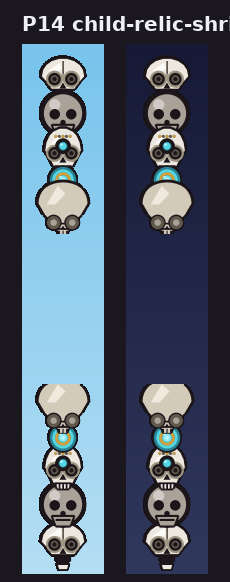
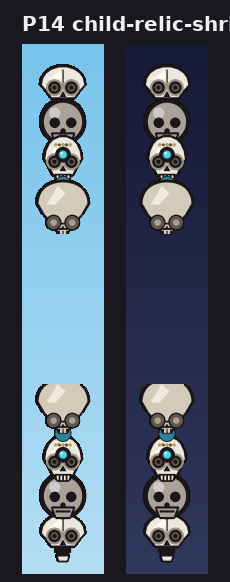
skull routes: expand column pool to 20 designs (P11-P20)
Routes were drawing from only 10 column designs, so repetition read
through. Add 10 new no-skewer stacked-skull columns (P11-P20) to the pool
and the catalog. The new set deliberately spends the three parts no P1-P10
design used (classic:child-skull, orn:bead_darkblue, r9:0 unlit crown) and
leans on under-used skulls/ornaments, spread so no single part defines two
columns; an art-director variety pass cleared the 20 with one fix (P14's
halo necklace was twinning P19, swapped to a dark-blue votive bead).

- render_skull_routes.py: DESIGN_FILES 10 -> 20; routes auto-mix the pool.
- pillars/build_showcase.py: catalog reworked to 20 cells in ORIGINAL
  (P1-P10) / NEW (P11-P20) sections.
- Regenerated routes/skull_routes.png + pillars/showcase.png.

Claude-Session: https://claude.ai/code/session_01JdHJ2TbdY51oSPSCYSsaHZ

diff --git a/docs/skull_king_stack/pillars/build_showcase.py b/docs/skull_king_stack/pillars/build_showcase.py
@@ -15,18 +15,28 @@ import pygame
 import pillar_engine as PE
 sk = PE.sk
 
-# id, slug, module filename, group
+# id, slug, module filename, group (original P1-P10 vs the new no-skewer P11-P20)
 PILLARS = [
-    (1,  "relic-reliquary-totem",        "render_relic_reliquary_totem.py",        "plain"),
-    (2,  "horned-warband",               "render_horned_warband.py",               "plain"),
-    (3,  "keystone-cairn",               "render_keystone_cairn.py",               "plain"),
-    (4,  "gaunt-hollow-spire",           "render_gaunt_hollow_spire.py",           "plain"),
-    (5,  "broken-bone-pile",             "render_broken_bone_pile.py",             "plain"),
-    (6,  "plain-bone-spit",              "render_plain_bone_spit.py",              "skewered"),
-    (7,  "gold-cored-scepter",           "render_gold_cored_scepter.py",           "skewered"),
-    (8,  "ring-eye-washer-axle",         "render_ring_eye_washer_axle.py",         "skewered"),
-    (9,  "barbed-fang-harpoon",          "render_barbed_fang_harpoon.py",          "skewered"),
-    (10, "bead-threaded-strand-spindle", "render_bead_threaded_strand_spindle.py", "skewered"),
+    (1,  "relic-reliquary-totem",        "render_relic_reliquary_totem.py",        "original"),
+    (2,  "horned-warband",               "render_horned_warband.py",               "original"),
+    (3,  "keystone-cairn",               "render_keystone_cairn.py",               "original"),
+    (4,  "gaunt-hollow-spire",           "render_gaunt_hollow_spire.py",           "original"),
+    (5,  "broken-bone-pile",             "render_broken_bone_pile.py",             "original"),
+    (6,  "plain-bone-spit",              "render_plain_bone_spit.py",              "original"),
+    (7,  "gold-cored-scepter",           "render_gold_cored_scepter.py",           "original"),
+    (8,  "ring-eye-washer-axle",         "render_ring_eye_washer_axle.py",         "original"),
+    (9,  "barbed-fang-harpoon",          "render_barbed_fang_harpoon.py",          "original"),
+    (10, "bead-threaded-strand-spindle", "render_bead_threaded_strand_spindle.py", "original"),
+    (11, "runt-cairn-taper",             "render_runt_cairn_taper.py",             "new"),
+    (12, "thirdeye-watchtower",          "render_thirdeye_watchtower.py",          "new"),
+    (13, "lopsided-fang-lean",           "render_lopsided_fang_lean.py",           "new"),
+    (14, "child-relic-shrine",           "render_child_relic_shrine.py",           "new"),
+    (15, "darkblue-bone-rosary",         "render_darkblue_bone_rosary.py",         "new"),
+    (16, "broad-block-bastion",          "render_broad_block_bastion.py",          "new"),
+    (17, "cracked-ruin-lean",            "render_cracked_ruin_lean.py",            "new"),
+    (18, "palm-jewel-pagoda",            "render_palm_jewel_pagoda.py",            "new"),
+    (19, "necklace-draped-warlord",      "render_necklace_draped_warlord.py",      "new"),
+    (20, "mongrel-generations-totem",    "render_mongrel_generations_totem.py",    "new"),
 ]
 
 HALF_H, GAP = 168, 120
@@ -61,26 +71,30 @@ for pid, slug, fname, group in PILLARS:
         print("MISSING", slug); continue
     cells.append((group, _cell(pid, slug, _load(slug, fname))))
 
-plain = [c for g, c in cells if g == "plain"]
-skew = [c for g, c in cells if g == "skewered"]
-gap, head, rowlab = 14, 64, 28
+# two sections (original P1-P10, new P11-P20), each wrapped at COLS per row so the
+# new additions read as their own block under the existing roster
+SECTIONS = [("ORIGINAL (P1-P10)", "original"), ("NEW (P11-P20) · no skewer", "new")]
+COLS = 5
+gap, head, rowlab = 14, 70, 28
 cw = max(c.get_width() for _, c in cells)
 ch = max(c.get_height() for _, c in cells)
-cols = max(len(plain), len(skew), 1)
-W = cols * cw + (cols + 1) * gap
-H = head + 2 * (ch + rowlab + gap)
+total_rows = sum(-(-sum(1 for g, _ in cells if g == key) // COLS) for _, key in SECTIONS)
+W = COLS * cw + (COLS + 1) * gap
+H = head + len(SECTIONS) * rowlab + total_rows * (ch + gap) + gap
 sheet = pygame.Surface((W, H)); sheet.fill(sk.BG)
-sheet.blit(sk.font(26).render("SKULL-KING event — 10 stacked-skull pillar designs", True, sk.LABEL), (gap, 16))
-sheet.blit(sk.font(14).render("top row = 5 plain (P1-P5) · bottom row = 5 skewered (P6-P10) · drawn from skulls #1-#30 + ornaments #31-#36", True, sk.LABEL_DIM), (gap, 44))
+sheet.blit(sk.font(26).render("SKULL-KING event — 20 stacked-skull pillar designs", True, sk.LABEL), (gap, 16))
+sheet.blit(sk.font(14).render("P1-P10 = original roster · P11-P20 = new no-skewer totems · drawn from skulls #1-#30 + ornaments #31-#36", True, sk.LABEL_DIM), (gap, 46))
 
 y = head
-for label, row in (("PLAIN", plain), ("SKEWERED", skew)):
+for label, key in SECTIONS:
     sheet.blit(sk.font(15).render(label, True, sk.LABEL_DIM), (gap, y))
     y += rowlab
-    x = gap
-    for c in row:
-        sheet.blit(c, (x, y)); x += cw + gap
-    y += ch + gap
+    row = [c for g, c in cells if g == key]
+    for i in range(0, len(row), COLS):
+        x = gap
+        for c in row[i:i + COLS]:
+            sheet.blit(c, (x, y)); x += cw + gap
+        y += ch + gap
 
 out = os.path.join(HERE, "showcase.png")
 pygame.image.save(sheet, out)

diff --git a/tools/render_skull_routes.py b/tools/render_skull_routes.py
@@ -1,6 +1,6 @@
 """SKULL-KING event ROUTE figure: 5 hard routes (difficulty 6-10, one each) drawn
 as stacked-skull / skewer PILLARS — every pillar slot a (deterministic-)random one
-of the ten skull pillar designs P1-P10. The skull analogue of the clown event's
+of the twenty skull pillar designs P1-P20. The skull analogue of the clown event's
 warren route, but the skull event draws from the HARD band (6-10) instead of the
 clown's easy archetypes (2-4).
 
@@ -52,7 +52,8 @@ def _compress(pagodas):
     return [(START_X_SKULL + (x - base) * f, cy, gap_h, seed)
             for (x, cy, gap_h, seed) in pagodas]
 
-# the ten skull pillar designs in P1..P10 order
+# the twenty skull pillar designs in P1..P20 order (P11-P20 are no-skewer totems
+# that widen the pool so the routes stop visibly repeating)
 DESIGN_FILES = [
     ("relic-reliquary-totem",        "render_relic_reliquary_totem.py"),
     ("horned-warband",               "render_horned_warband.py"),
@@ -64,6 +65,16 @@ DESIGN_FILES = [
     ("ring-eye-washer-axle",         "render_ring_eye_washer_axle.py"),
     ("barbed-fang-harpoon",          "render_barbed_fang_harpoon.py"),
     ("bead-threaded-strand-spindle", "render_bead_threaded_strand_spindle.py"),
+    ("runt-cairn-taper",             "render_runt_cairn_taper.py"),
+    ("thirdeye-watchtower",          "render_thirdeye_watchtower.py"),
+    ("lopsided-fang-lean",           "render_lopsided_fang_lean.py"),
+    ("child-relic-shrine",           "render_child_relic_shrine.py"),
+    ("darkblue-bone-rosary",         "render_darkblue_bone_rosary.py"),
+    ("broad-block-bastion",          "render_broad_block_bastion.py"),
+    ("cracked-ruin-lean",            "render_cracked_ruin_lean.py"),
+    ("palm-jewel-pagoda",            "render_palm_jewel_pagoda.py"),
+    ("necklace-draped-warlord",      "render_necklace_draped_warlord.py"),
+    ("mongrel-generations-totem",    "render_mongrel_generations_totem.py"),
 ]
 
 
@@ -180,7 +191,7 @@ def main():
                                (245, 240, 235)), (PAD, PAD - 2))
     canvas.blit(f_sub.render(
         "the event rolls a random hard route (6-10) · each pillar = a random skull "
-        "design P1-P10 · one route per difficulty", True, (210, 180, 175)), (PAD, PAD + 40))
+        "design P1-P20 · one route per difficulty", True, (210, 180, 175)), (PAD, PAD + 40))
 
     y = TITLE_H
     for (d, name, tier, n, dur, shown, strip, native_w) in strips:

diff --git a/docs/skull_king_stack/pillars/child-relic-shrine/render_child_relic_shrine.py b/docs/skull_king_stack/pillars/child-relic-shrine/render_child_relic_shrine.py
@@ -6,13 +6,14 @@ import pillar_engine as PE
 # WHY a small reliquary shrine: a child-skull is cradled and venerated at the gap as
 # the FOCAL subject (distinct from the runt-cairn, where the child-skull is an exiled
 # far nub), with larger guardians standing above it — a forehead-gem palm relic and an
-# unlit r9 crown keeping vigil. A draped necklace garland ties the shrine together and
-# COLLAR is ON so warm gold seam beads frame the devotional read: tiny focal, larger
+# unlit r9 crown keeping vigil. A single dark-blue votive bead marks the shrine subject
+# (the draped halo garland is left to the warlord, which owns that ornament) and COLLAR
+# is ON so warm gold seam beads frame the devotional read: tiny focal, larger
 # protectors. The unlit crown reads as a relic in repose, not a reigning king.
 TITLE = "P14 child-relic-shrine"
 RECIPE = [
     "classic:child-skull",   # focal: the small venerated subject cradled at the gap
-    "orn:ornament_necklace", # a draped garland hung just above the shrine subject
+    "orn:bead_darkblue",     # a dark-blue votive bead set just above the shrine subject
     "palm:4",                # forehead-gem palm relic — the first guardian
     "r9:0",                  # unlit crown standing in vigil (no lit reign)
     "palm:3",                # far guardian closes the shrine

diff --git a/docs/skull_king_stack/pillars/_new10_brainstorm.md b/docs/skull_king_stack/pillars/_new10_brainstorm.md
@@ -69,15 +69,18 @@ column and the only fang-heavy *plain* totem (P9's fangs were skewered).
 ## P14 — `child-relic-shrine`
 **Thesis:** A *small reliquary shrine* — a child-skull cradled and venerated at the
 gap (focal), with a single forehead-gem palm relic as a guardian above and an unlit
-r9 crown standing in vigil; a draped necklace garland ties the shrine together. The
+r9 crown standing in vigil; a dark-blue votive bead marks the subject. The
 tender/devotional read: tiny focal, larger protectors. Mixed family, COLLAR on.
-**Word-thumbnail:** ● tiny → ◉ gem-palm → ○ unlit crown, with a hung loop.
-- **RECIPE (focal→far):** `classic:child-skull` (FOCAL, lit) → `orn:ornament_necklace`
+**Word-thumbnail:** ● tiny → · bead → ◉ gem-palm → ○ unlit crown.
+- **RECIPE (focal→far):** `classic:child-skull` (FOCAL, lit) → `orn:bead_darkblue`
   → `palm:4` → `r9:0` → `palm:3`
 - **COLLAR:** ON (warm gold seam beads frame the shrine)
 - **LEAN:** 0
 - **Showcases:** `classic:child-skull` AS the focal (distinct from P11's far-end use),
-  `r9:0` (unlit crown), `orn:ornament_necklace` (draped guardian garland), `palm:3`.
+  `r9:0` (unlit crown), `orn:bead_darkblue` (votive accent), `palm:3`.
+- *AD revision:* dropped the draped `ornament_necklace` (it twinned the gold-ringed
+  halo with P19, the warlord that owns that drape) for a single dark-blue votive bead;
+  P14's read now rests on the child-skull focal + size-shrine idea alone.
 
 ## P15 — `darkblue-bone-rosary`
 **Thesis:** A *cold rosary* of bare classic bone domes threaded on dark-blue beads —
@@ -199,12 +202,12 @@ classic (P11, P14, P15, P16, P18→palm), new (P12, P13, P17, P20), crown (P19),
 | Part | Status before | Featured in (new) |
 | --- | --- | --- |
 | `classic:child-skull` | UNUSED | P11 (far nub), P14 (FOCAL) |
-| `orn:bead_darkblue` | UNUSED | P11, P15 (×3), P17, P20 |
+| `orn:bead_darkblue` | UNUSED | P11, P14, P15 (×3), P17, P20 |
 | `r9:0` (unlit crown) | UNUSED | P14, P15 (far terminal), P20 (mid-body) |
 | `palm:3` | once | P14, P18, P20 |
 | `classic:broad-zygo` | once | P11, P16 (×2) |
 | `orn:gem_thirdeye` | once | P12 (×3), P16, P20 |
-| `orn:ornament_necklace` | once | P14, P19 (×2) |
+| `orn:ornament_necklace` | once | P19 (×2) |
 | `new:cyclops-brow` | once | P12 (×2) |
 | `new:sabertooth-maw` | once | P13 (×2) |
 | `new:longjaw-relic` | once | P13 (×2), P20 (FOCAL) |
